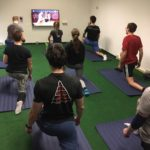
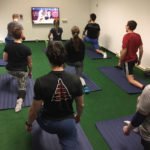
Changed entry pictures to landscape

diff --git a/src/app/pages/new-comer/entry/entry.component.html b/src/app/pages/new-comer/entry/entry.component.html
@@ -94,7 +94,7 @@
                 <div
                     id="recovery"
                     class="col-12 col-md-4 image"
-                    [style.background-image]="'url(/assets/static/images/entry/recovery-768x1024.jpeg)'"
+                    [style.background-image]="'url(/assets/static/images/entry/recovery-768x576.jpeg)'"
                     [style.background-position]="'top'"
                 >
                 </div>
